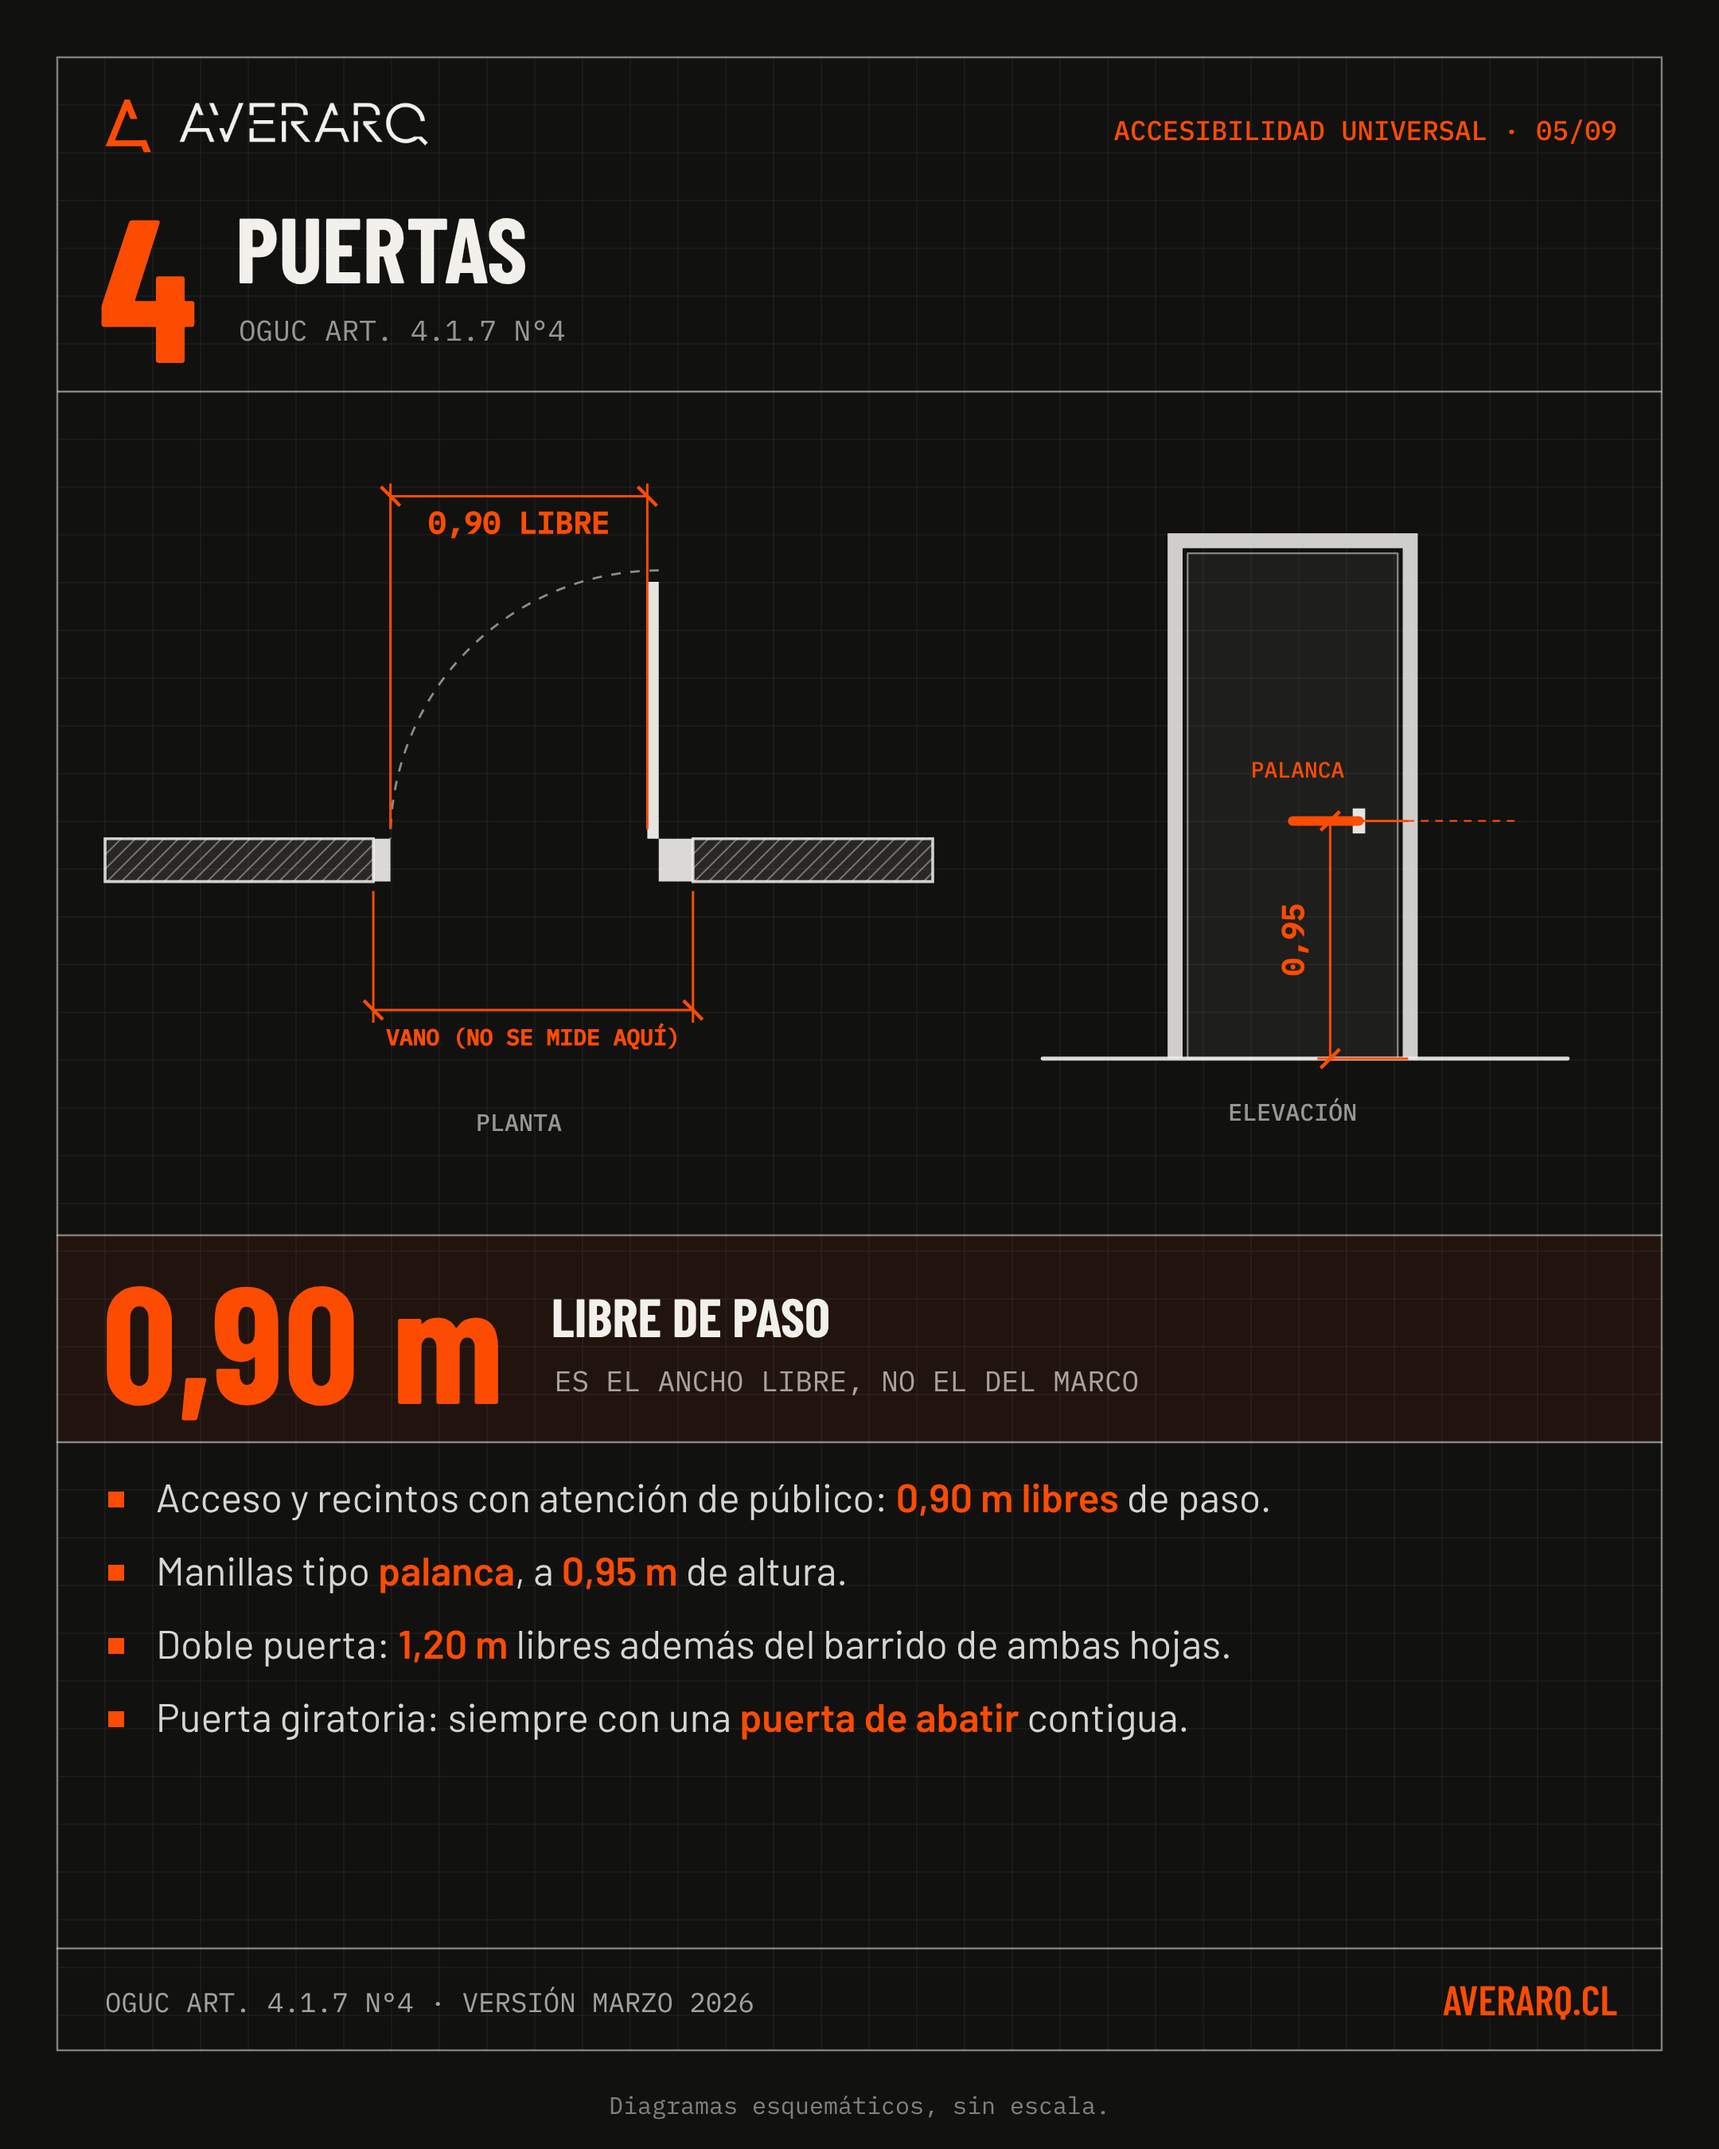
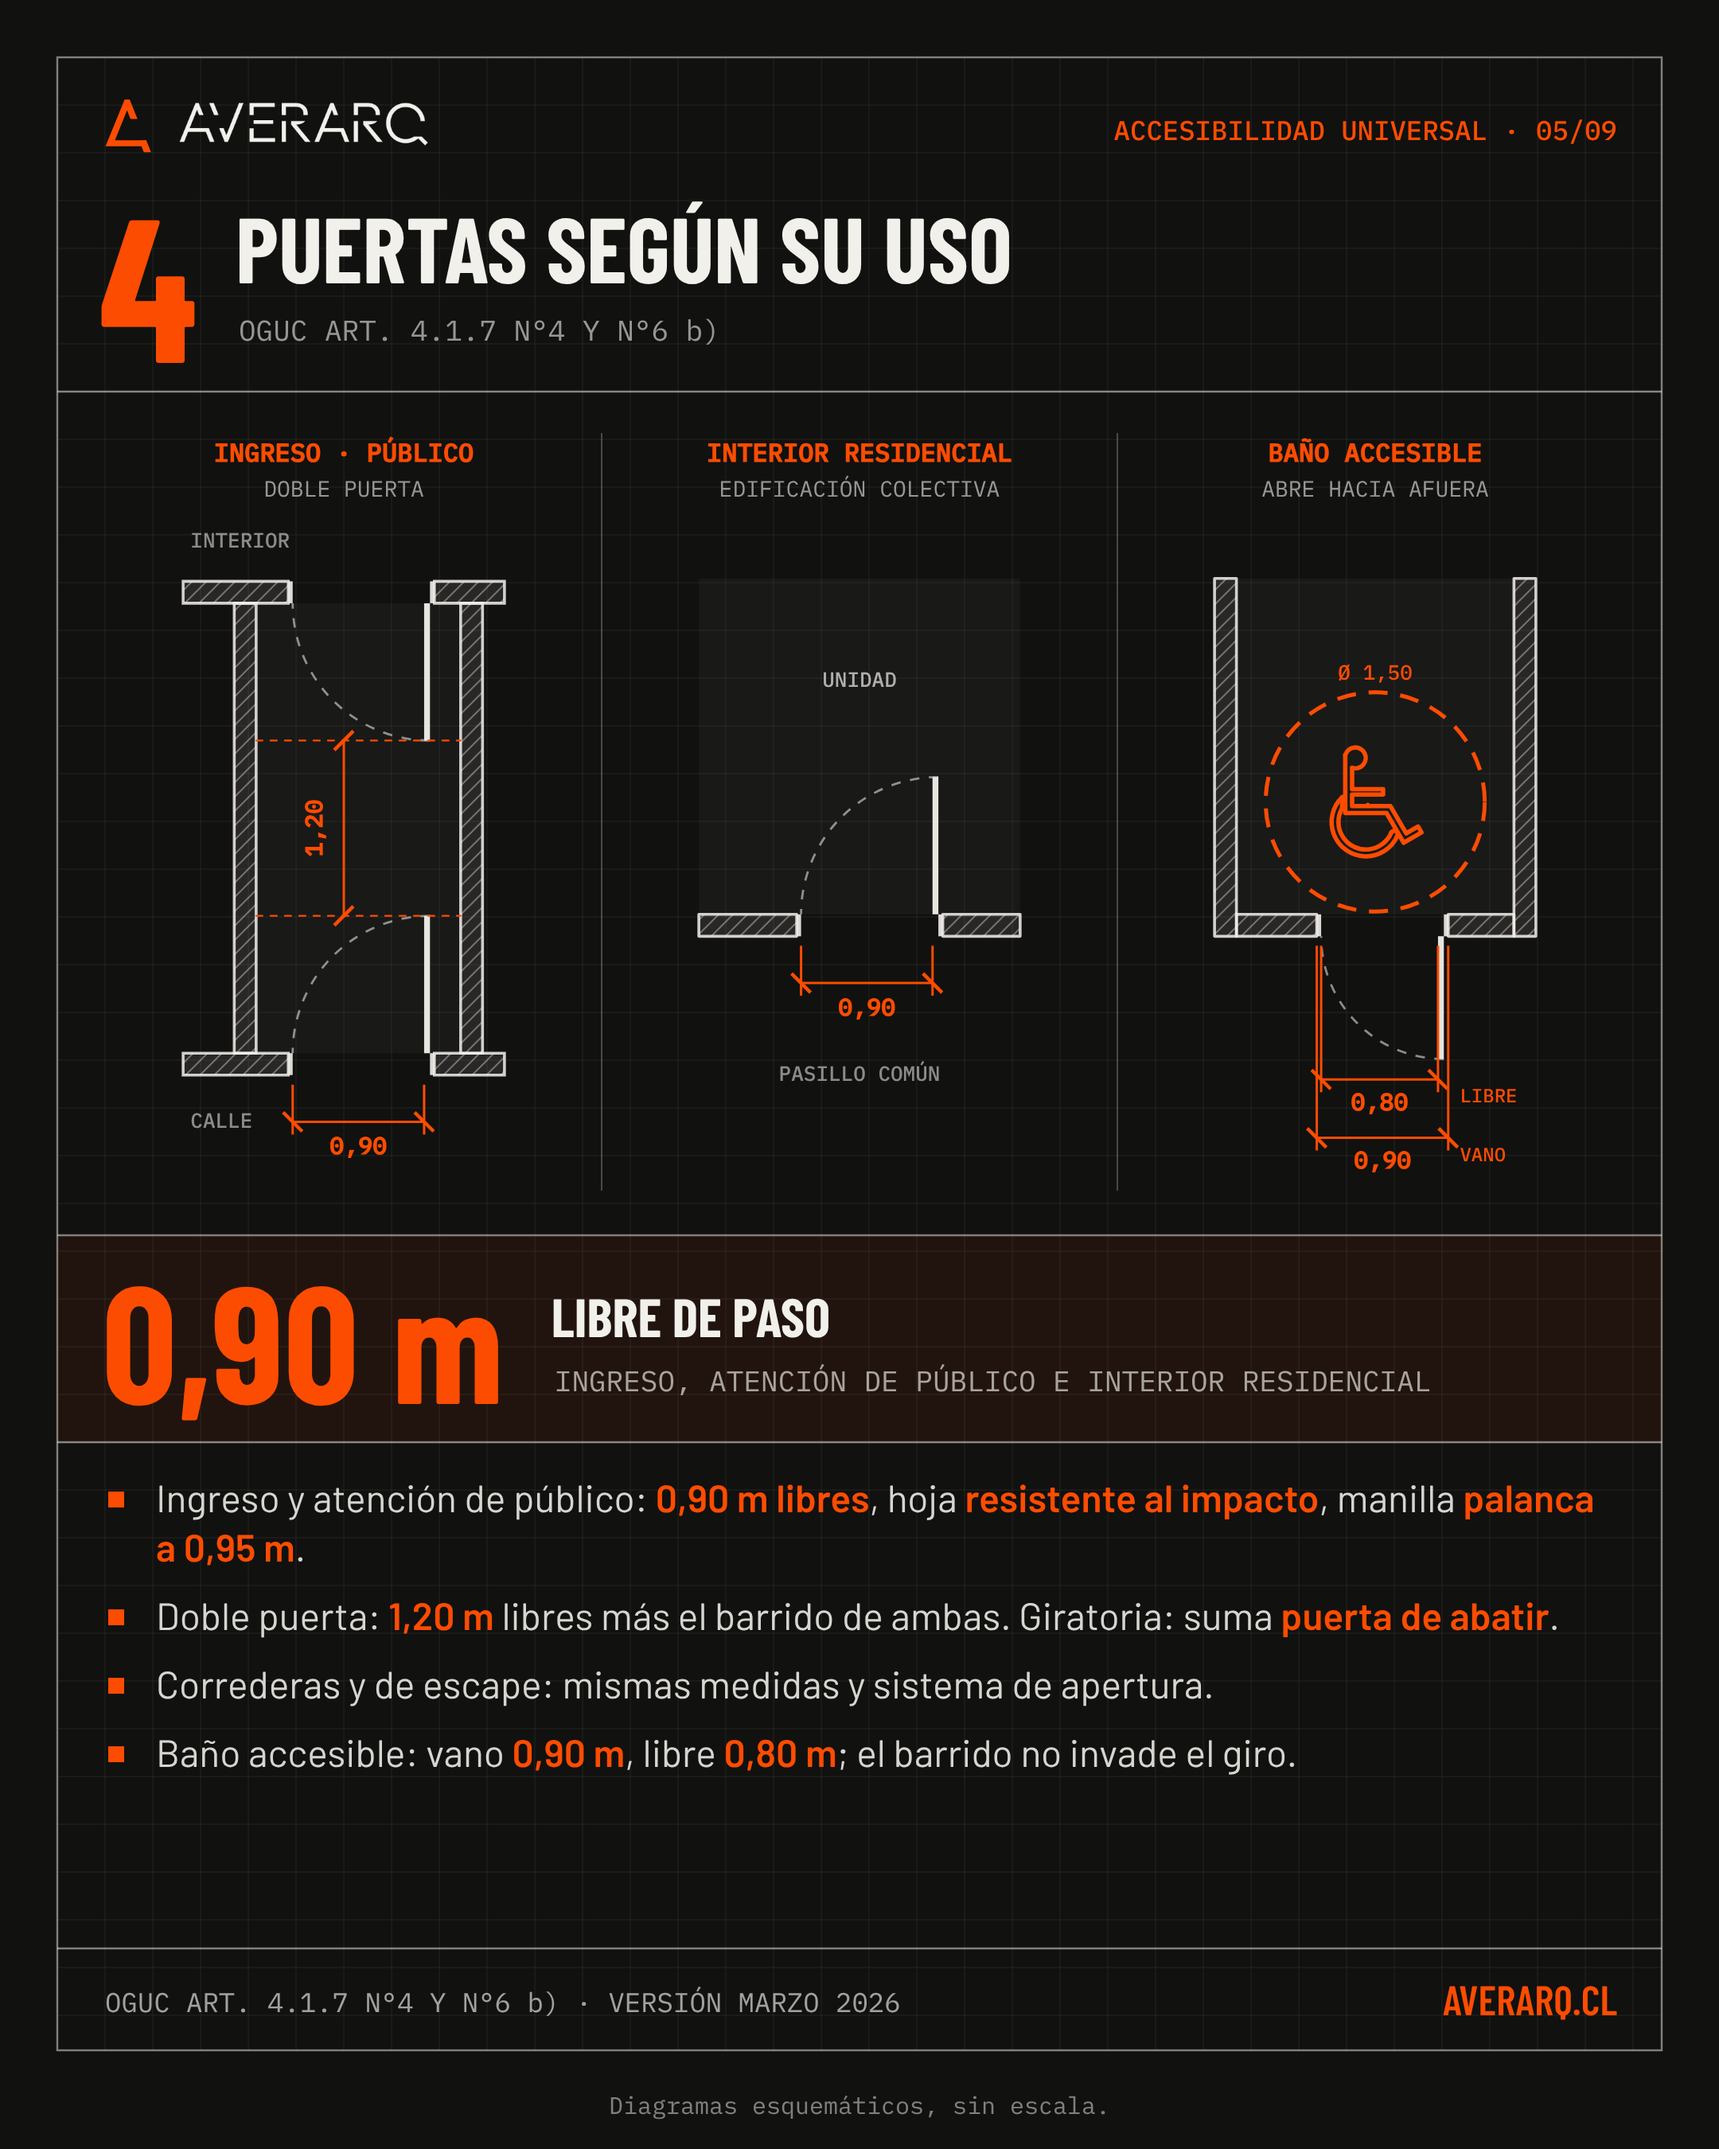
Carrusel accesibilidad: lámina de puertas según su uso (ingreso, interior residencial, baño), citada contra el corpus
Claude-Session: https://claude.ai/code/session_01QPX7rdx3v6ibxoKke2YJGo

diff --git a/_estrategia/posts/accesibilidad-universal/_fuente/carrusel.html b/_estrategia/posts/accesibilidad-universal/_fuente/carrusel.html
@@ -301,32 +301,57 @@ window.ready = (async () => {
     pie('OGUC ART. 4.1.7 N°1 Y N°4 · VERSIÓN MARZO 2026');
   }
 
-  if (SL === 5) { // 4 · puertas
-    cabecera(4, 'PUERTAS', 'OGUC ART. 4.1.7 N°4');
-    vista([M + 30, 280, 520, 440], [-1.0, -.9, 1.9, 1.5]);
-    muro(-1.0, 0, .94, .15); muro(1.06, 0, .84, .15);
-    poli(rect(-.06, 0, .06, .15), cr(.9)); poli(rect(.94, 0, .12, .15), cr(.9));
-    poli(rect(.9, .15, .04, .9), cr(.95)); arco(.94, .15, .94, Math.PI / 2, Math.PI);
-    cota([0, .15], [.9, .15], -1.2, '0,90 LIBRE', { d: -18 });
-    trazo([[0, .2], [0, 1.4]], OR, 1.1, [4, 5]);
-    cota([-.06, 0], [1.06, 0], .45, 'VANO (NO SE MIDE AQUÍ)', { d: 18, tam: 14 });
-    rotulo('PLANTA', .45, -.85, 'center', cr(.6));
-    vista([M + 590, 280, W - 2 * M - 620, 440], [-.5, -.35, 1.6, 2.45]);
-    trazo([[-.5, 0], [1.6, 0]], cr(.9), 2.4);
-    poli([[0, 0], [0, 2.1], [1.0, 2.1], [1.0, 0], [.94, 0], [.94, 2.04], [.06, 2.04], [.06, 0]], cr(.85));
-    poli(rect(.08, 0, .84, 2.02), 'rgba(242,240,235,0.06)', cr(.5), 1.2);
-    poli(rect(.74, .9, .05, .1), cr(.95)); trazo([[.765, .95], [.5, .95]], OR, 6);
-    cota([1.0, 0], [1.0, .95], -.35, '0,95', { d: 22 });
-    trazo([[.5, .95], [1.4, .95]], OR, 1.1, [4, 5]);
-    rotulo('PALANCA', .52, 1.15, 'center', OR, 14);
-    rotulo('ELEVACIÓN', .5, -.22, 'center', cr(.6));
-    cifra(776, '0,90 m', 'LIBRE DE PASO', 'ES EL ANCHO LIBRE, NO EL DEL MARCO');
+  if (SL === 5) { // 4 · puertas según su uso
+    cabecera(4, 'PUERTAS SEGÚN SU USO', 'OGUC ART. 4.1.7 N°4 Y N°6 b)');
+    // puerta en planta: xl = borde del paso libre, y = base del muro (e = 0,15), L = ancho libre; abre hacia arriba o abajo
+    const e = .15;
+    const puerta = (xl, y, L, arriba, x0, x1) => {
+      const f = arriba ? y + e : y, xh = xl + L + .04, R = L + .04;
+      muro(x0, y, xl - .03 - x0, e); muro(xh + .03, y, x1 - xh - .03, e);
+      poli(rect(xl - .03, y, .03, e), cr(.9)); poli(rect(xh, y, .03, e), cr(.9));
+      poli(arriba ? rect(xl + L, f, .04, R) : rect(xl + L, f - R, .04, R), cr(.95));
+      arriba ? arco(xh, f, R, Math.PI / 2, Math.PI) : arco(xh, f, R, -Math.PI / 2, -Math.PI);
+      return f + (arriba ? R : -R);
+    };
+    const panel = (k, tit, sub) => {
+      const x = M + 30 + k * 324;
+      if (k) { g.strokeStyle = cr(.25); g.lineWidth = 1; g.beginPath(); g.moveTo(x - 12, 272); g.lineTo(x - 12, 748); g.stroke(); }
+      texto(tit, x + 150, 290, '600 16px "IBM Plex Mono"', OR, 'center');
+      texto(sub, x + 150, 312, '400 14px "IBM Plex Mono"', cr(.6), 'center');
+      return [x, 345, 300, 390];
+    };
+    // A · ingreso / atención de público, con doble puerta
+    vista(panel(0, 'INGRESO · PÚBLICO', 'DOBLE PUERTA'), [-.55, -.65, 1.65, 3.6]);
+    poli(rect(-.05, .15, 1.4, 3.08), 'rgba(242,240,235,0.04)');
+    const r1 = puerta(.2, 0, .9, true, -.55, 1.65);
+    const yw = r1 + 1.2 + .94; const r2 = puerta(.2, yw, .9, false, -.55, 1.65);
+    muro(-.2, .15, .15, yw - .15); muro(1.35, .15, .15, yw - .15);
+    cota([.2, 0], [1.1, 0], .32, '0,90', { d: 16, tam: 15 });
+    trazo([[-.05, r1], [1.35, r1]], OR, 1.1, [4, 5]); trazo([[-.05, r2], [1.35, r2]], OR, 1.1, [4, 5]);
+    cota([.55, r1], [.55, r2], 0, '1,20', { d: -18, tam: 15 });
+    rotulo('CALLE', -.5, -.32, 'left', cr(.55), 13); rotulo('INTERIOR', -.5, yw + .42, 'left', cr(.55), 13);
+    // B · interior residencial colectiva
+    vista(panel(1, 'INTERIOR RESIDENCIAL', 'EDIFICACIÓN COLECTIVA'), [-.6, -1.6, 1.6, 2.65]);
+    poli(rect(-.6, .15, 2.2, 2.3), 'rgba(242,240,235,0.04)');
+    puerta(.1, 0, .9, true, -.6, 1.6);
+    cota([.1, 0], [1.0, 0], .32, '0,90', { d: 16, tam: 15 });
+    rotulo('UNIDAD', .5, 1.75, 'center', cr(.7), 13); rotulo('PASILLO COMÚN', .5, -.95, 'center', cr(.55), 13);
+    // C · baño accesible: vano 0,90, libre 0,80, abre hacia afuera
+    vista(panel(2, 'BAÑO ACCESIBLE', 'ABRE HACIA AFUERA'), [-.6, -1.6, 1.6, 2.65]);
+    poli(rect(-.45, .15, 1.9, 2.3), 'rgba(242,240,235,0.04)');
+    muro(-.6, 0, .15, 2.45); muro(1.45, 0, .15, 2.45);
+    puerta(.13, 0, .8, false, -.45, 1.45);
+    circulo(.5, .92, .75); isa(.5, .92, .75);
+    cota([.13, 0], [.93, 0], .98, '0,80', { d: 15, tam: 15 }); rotulo('LIBRE', 1.08, -1.1, 'left', OR, 12);
+    cota([.1, 0], [1.0, 0], 1.38, '0,90', { d: 15, tam: 15 }); rotulo('VANO', 1.08, -1.5, 'left', OR, 12);
+    rotulo('Ø 1,50', .5, 1.8, 'center', OR, 13);
+    cifra(776, '0,90 m', 'LIBRE DE PASO', 'INGRESO, ATENCIÓN DE PÚBLICO E INTERIOR RESIDENCIAL');
     vinetas(950, [
-      'Acceso y recintos con atención de público: **0,90 m libres** de paso.',
-      'Manillas tipo **palanca**, a **0,95 m** de altura.',
-      'Doble puerta: **1,20 m** libres además del barrido de ambas hojas.',
-      'Puerta giratoria: siempre con una **puerta de abatir** contigua.']);
-    pie('OGUC ART. 4.1.7 N°4 · VERSIÓN MARZO 2026');
+      'Ingreso y atención de público: **0,90 m libres**, hoja **resistente al impacto**, manilla **palanca a 0,95 m**.',
+      'Doble puerta: **1,20 m** libres más el barrido de ambas. Giratoria: suma **puerta de abatir**.',
+      'Correderas y de escape: mismas medidas y sistema de apertura.',
+      'Baño accesible: vano **0,90 m**, libre **0,80 m**; el barrido no invade el giro.'], 24, 31, 12);
+    pie('OGUC ART. 4.1.7 N°4 Y N°6 b) · VERSIÓN MARZO 2026');
   }
 
   if (SL === 6) { // 5 · ascensor

diff --git a/_estrategia/posts/accesibilidad-universal/fuentes.md b/_estrategia/posts/accesibilidad-universal/fuentes.md
@@ -20,6 +20,9 @@ Fuente: OGUC, versión marzo 2026 (corpus normativo AVERARQ). Cada cifra del car
 | 05 · Puertas | Manillas palanca a 0,95 m | 4.1.7 n°4 |
 | 05 · Puertas | Doble puerta: 1,20 m libres además del barrido | 4.1.7 n°4 |
 | 05 · Puertas | Puerta giratoria + puerta de abatir contigua | 4.1.7 n°4 |
+| 05 · Puertas | Hoja resistente al impacto; correderas y de escape con iguales medidas y apertura | 4.1.7 n°4 |
+| 05 · Puertas | Puertas interiores de acceso a unidades residenciales colectivas: 0,90 m libre de paso | 4.1.7 n°4 |
+| 05 · Puertas | Baño accesible: vano 0,90 m, libre 0,80 m, abre preferentemente hacia el exterior; si abre hacia adentro, el barrido no interfiere con el giro | 4.1.7 n°6 b) |
 | 06 · Ascensor | Obligatorio: vivienda ≥ 6 pisos; otros usos ≥ 5 pisos | 4.1.11 n°1 a) |
 | 06 · Ascensor | Cabina 1,10 × 1,40 × 2,20 m; puerta 0,90 m; pasamanos 0,90 m | 4.1.7 n°3 |
 | 06 · Ascensor | Botonera 0,90–1,20 m, ≥ 0,40 m del vértice; relieve, braille, señal audible | 4.1.7 n°3 |
@@ -40,4 +43,4 @@ Fuente: OGUC, versión marzo 2026 (corpus normativo AVERARQ). Cada cifra del car
 ## Pendientes antes de publicar
 - **Diámetro de las barras (4.1.7 n°6 c):** el texto extraído viene cortado, así que no se acotó. Confirmar en el PDF si se quiere incluir.
 - **Podotáctil frente a rampas:** el ITRAU Valparaíso indica un máximo de 0,8 m; se usó la cifra de la OGUC 2.2.8 (0,40–0,60 m).
-- **No incluido en las láminas:** el espesor máximo de alfombras (4.1.7 n°4). La cifra del encargo (0,13 cm) conviene confirmarla en el PDF.
+- **Alfombras (no incluido en las láminas):** el corpus confirma el texto literal «su espesor no podrá ser superior a 0,13 cm» (4.1.7 n°1, pág. 241).
